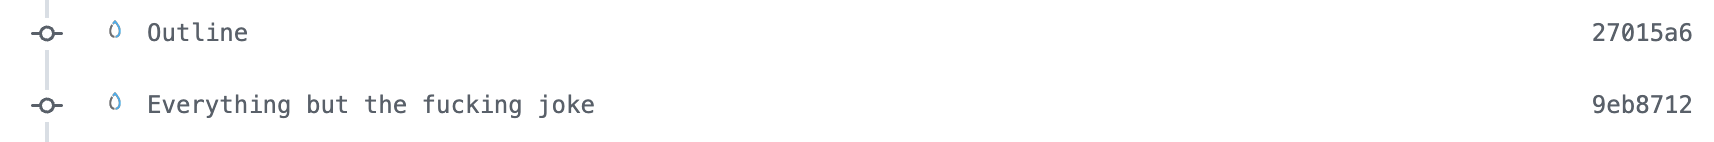
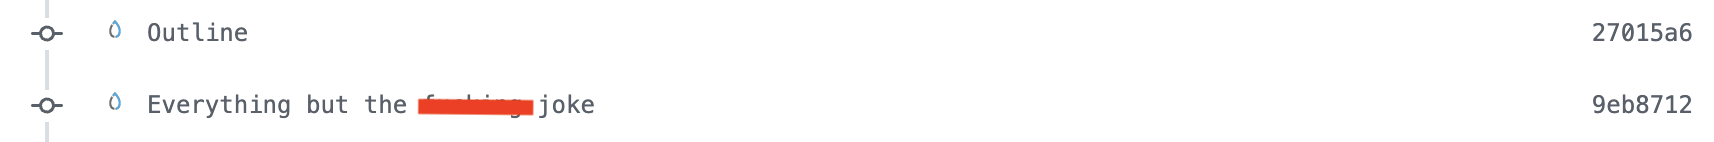
red strike through

Changed region(s): [[0.2165, 0.6761, 0.3092, 0.8169]]

diff --git a/emails/2022-11-04.md b/emails/2022-11-04.md
@@ -2,7 +2,9 @@ This is the weekly CEO update from [DoltHub](https://www.dolthub.com/). I'm Tim,
 
 Me every week now:
 
-[![Fucking joke](../images/fucking-joke.png)](https://github.com/dolthub/weekly-updates/pull/23)
+[![I hate the joke](../images/fucking-joke.png)](https://github.com/dolthub/weekly-updates/pull/23)
+
+Brian, [requestor of the joke in the first place](https://github.com/dolthub/weekly-updates/pull/5), didn't like my language, so I tried to rebase but GitHub would not destroy the f-bomb record. So, Brian will have to settle for a red strike through.
 
 ### Time to Plug New Format Again!
 
